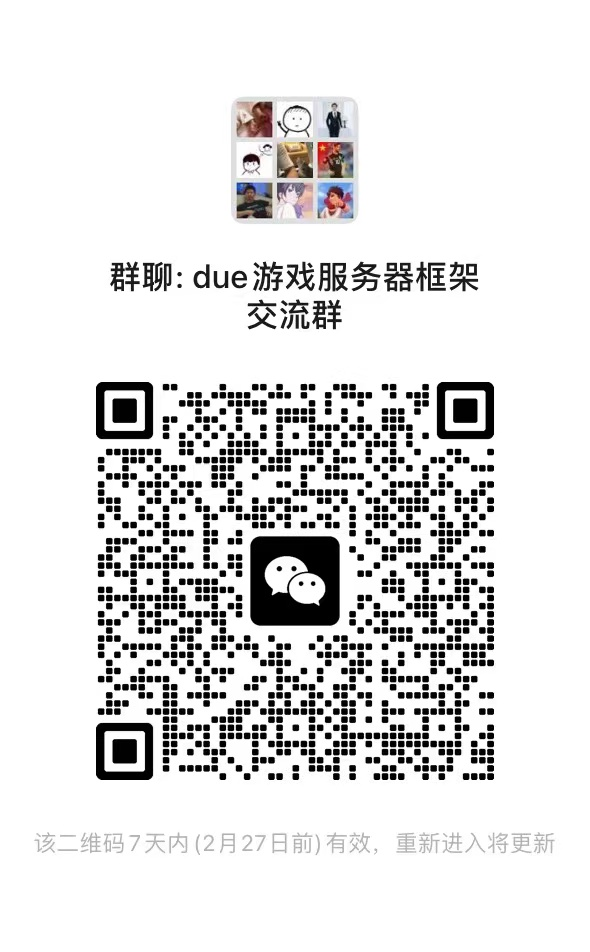
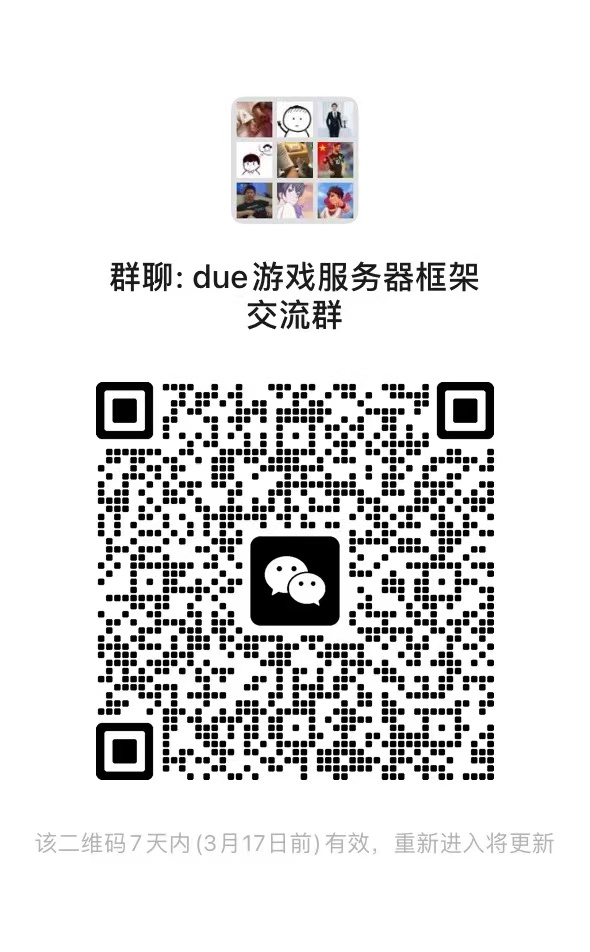
update qrcode image of the due group

diff --git a/README.md b/README.md
@@ -293,4 +293,7 @@ func push(conn network.Conn, route int32, buffer []byte) error {
 
 ### 9.交流与讨论
 
-<img title="" src="group_qrcode.jpeg" alt="交流群" width="175"><img title="" src="personal_qrcode.jpeg" alt="个人二维码" width="177">
+<img title="" src="group_qrcode.jpeg" alt="交流群" width="175">
+<img title="" src="personal_qrcode.jpeg" alt="个人二维码" width="177">
+
+个人微信：yuebanfuxiao
